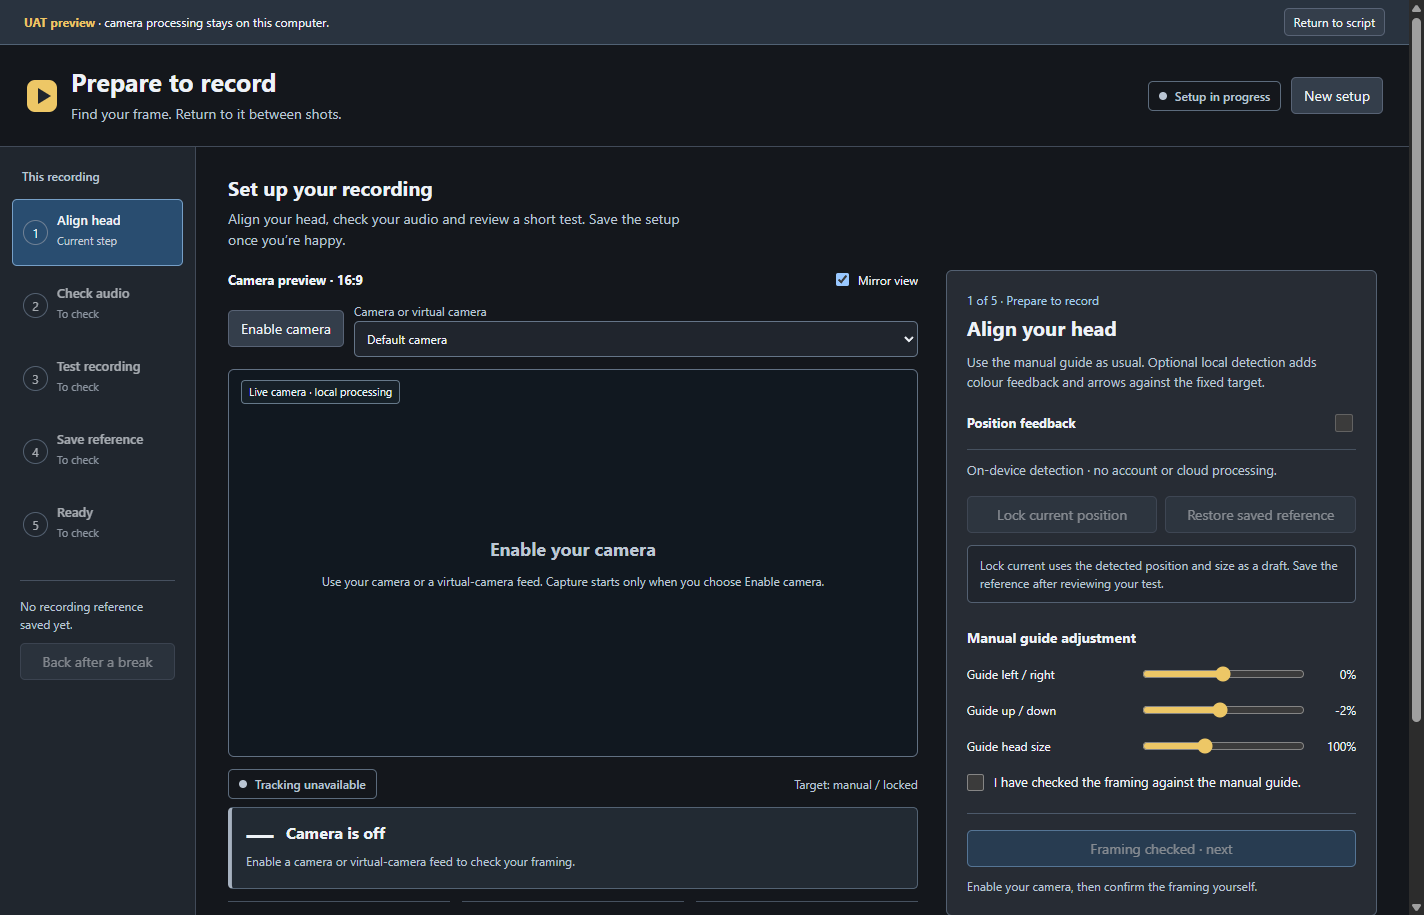
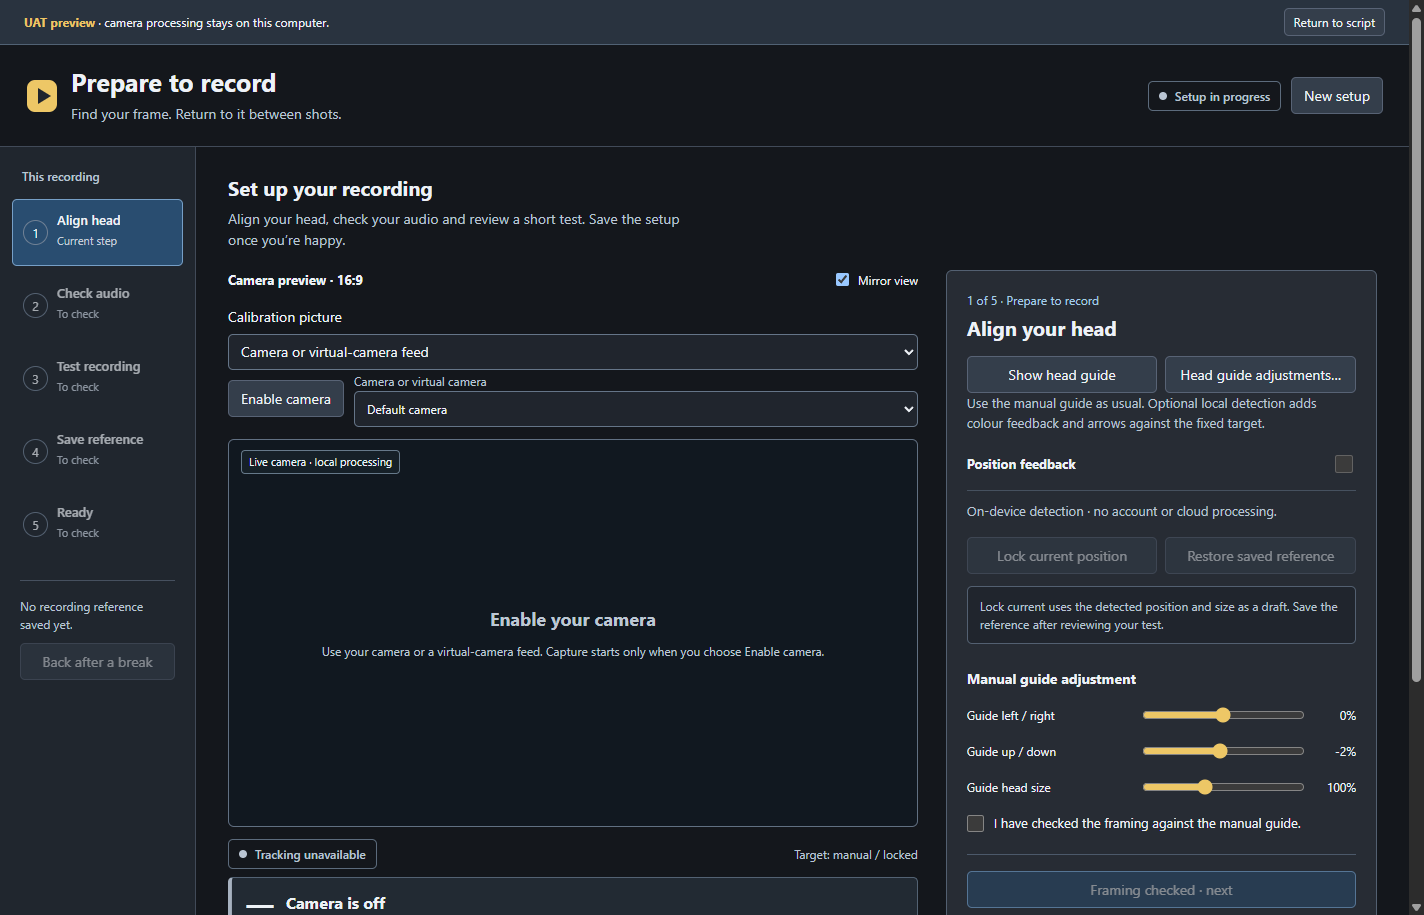
Document verified RC4 and refresh packaged Settings captures

diff --git a/docs/design/NEXT-PREVIEW-FEEDBACK.md b/docs/design/NEXT-PREVIEW-FEEDBACK.md
@@ -1,38 +1,48 @@
 # Feedback queued after UAT 09
 
-## Preparation entry points · queued after RC 3
+## Preparation entry points · delivered in RC 4
 
-- [ ] Make the significant camera/audio/test/reference workflow the first,
+- [x] Make the significant camera/audio/test/reference workflow the first,
   prominent action under Prepare to record, using the same card style as the
   six Settings shortcuts. Remove the small detached button below the grid.
-- [ ] Clarify the menu/page labels: Prepare to record > Overview, with detailed
+- [x] Clarify the menu/page labels: Prepare to record > Overview, with detailed
   guide/sound/connection settings below the actual workflow entry.
-- [ ] Show a direct main-toolbar entry and useful test/reference state.
-- [ ] Review the combined entry-point mock before implementation. Retain the
+- [x] Show a direct main-toolbar entry and useful test/reference state.
+- [x] Review the combined entry-point mock before implementation. Retain the
   signed-off three-column Settings composition and non-modal preparation.
-- [ ] Integrate live detection and Lock current with the existing Ctrl+Shift+H
+- [x] Integrate live detection and Lock current with the existing Ctrl+Shift+H
   overlay. Use one shared pose/reference and the existing guide adjustments;
   the current copy-on-open/save-only bridge is insufficient.
-- [ ] Support OBS calibration without requiring a change to the local recording
+- [x] Support OBS calibration without requiring a change to the local recording
   route. Assess selected scene/source frames first; temporary virtual camera
   is an explicit fallback that restores ownership correctly. A projector
   window is a display, not a currently supported detector input.
-- [ ] Hide OBS scene/source and temporary virtual-camera choices, OBS-specific
+- [x] Hide OBS scene/source and temporary virtual-camera choices, OBS-specific
   notes and related controls unless OBS is installed and integration is enabled.
   Keep generic camera/virtual feeds available. Apply this in both guide and
   preparation views. Do not equate disconnected/not running with not installed,
   or start a different capture input automatically when OBS is disabled.
-- [ ] Show a visible OBS scene chooser for direct OBS calibration. List actual
+- [x] Show a visible OBS scene chooser for direct OBS calibration. List actual
   scenes from the configured connection, retain the choice, and share it with
   the head guide. Selecting it must not switch programme/recording scenes.
   Hide it when OBS is unavailable/disabled or a different input type is selected.
-- [ ] Verify fixed-target behaviour, crop/aspect/projector mapping, two-way guide
+- [x] Verify fixed-target behaviour, crop/aspect/projector mapping, two-way guide
   updates, manual controls, reference restore and camera/feed cleanup. Keep
   Ideal and retain the distinction between saved pose and checked recording.
 
-See [the entry review](PREPARE-ENTRY-REVIEW.md) and its interactive mock. These
-are queued proposals, not features delivered in RC 3. No new RC is built for
-this single observation; collect the next feedback batch first.
+- [x] Align the pad Columns/preset row and show all nine buttons without a
+  selected-row picker. Keep every row reachable, with reorder and Remove.
+- [x] Show every game-controller and keyboard/clicker assignment with its
+  action and Remove control; scroll long lists rather than hiding mappings.
+- [x] Rename the connection page MCP, AI, and API and add Configure MCP beside
+  the switch, opening the included offline setup guide.
+
+See [the entry review](PREPARE-ENTRY-REVIEW.md) and its interactive mock.
+Joanne requested the build after reviewing the entry/shared-guide mock. These
+delivered messages were reconciled as one RC 4 batch; no unseen pending queue
+is claimed as reviewed. Source and packaged Windows checks pass, including
+real local inference and a scene-frame OBS protocol fixture. All four installer
+targets pass CI run 41836022786. Physical camera/projector/OBS UAT remains.
 
 ## RC 1 handover · 4 November 2026
 

diff --git a/docs/guide/07-settings.md b/docs/guide/07-settings.md
@@ -1,6 +1,6 @@
 # Settings
 
-This source guide describes **1.2.0 RC 1**, based on the approved
+This source guide describes **1.2.0 RC 4**, based on the approved
 interactive demo and Joanne's combined Connections/recording feedback.
 For the released app, use the guide bundled with its installer.
 
@@ -8,7 +8,7 @@ Open **Settings** on the toolbar, **Files (☰) > Settings**, or **Ctrl+,**
 (**Cmd+,** on Mac). Settings opens in an upright, movable window. It retains
 the same frame while you change sections; resizing never moves a control
 onto another page. There is no numbered pagination. Longer Getting started,
-Recording setup, OBS connection and AI/API panels scroll in the centre pane,
+Preparation, OBS connection, MCP/API and assignment panels scroll in the centre pane,
 keeping navigation, the reading example and footer in place.
 
 On larger windows, choose an area and a named section in the sidebar, or use
@@ -53,20 +53,21 @@ existing stored precision is retained until you adjust the value.
 | Area | Sections |
 | --- | --- |
 | Getting started | First setup: current configuration and guided next steps; Restore defaults |
-| Prepare to record | Recording setup |
+| Prepare to record | Overview |
 | Reading | Mode and pace; Text and directions; Theme and background; Prompter layout; Reading aids; Screens and mirroring; Head guide |
 | Voice | Speech engine; Microphone; Commands; Your words |
 | Recording | Takes; Sound check; Slate and sync |
-| Connections | Pad and phone; Phone remote; Keyboard and clickers; Game controller; Stream Deck; OBS integration; AI and API; Apps and add-ons |
+| Connections | Pad and phone; Phone remote; Keyboard and clickers; Game controller; Stream Deck; OBS integration; MCP, AI, and API; Apps and add-ons |
 | Debug | Status and recovery; Speech trace; Capture for demos; Support log |
 | About | Version and updates; Credits and licences; Help and support |
 
 ## Prepare and reading
 
-**Recording setup** opens preparation checks and links directly
-to script review, appearance and framing.
-
-Its **Prepare to record** action opens the real camera/audio/test workflow.
+**Prepare to record > Overview** puts the real head-guide/audio/test workflow
+first, with Open workflow and retained test/reference outcomes. Detailed reading,
+guide, sound and recorder settings sit below it. The main toolbar also has a
+direct Prepare to record action. Guide position and detection feedback are shared
+with the Ctrl+Shift+H overlay; choose a camera or an available OBS scene there.
 See [Prepare to record](16-prepare-to-record.md).
 
 Test recording results persist beside this action and on the prompter. A clip
@@ -76,7 +77,7 @@ sound meter automatically, then restore its earlier visibility.
 **Connections > OBS integration** has three visible subtabs: Connection,
 Recording control, Profile and scenes. Connection and recording state are
 separate. Apply connection changes before testing; retained pass/fail feedback
-does not replace reviewing a recording. **AI and API** contains the optional
+does not replace reviewing a recording. **MCP, AI, and API** contains the optional
 [MCP connection and separate grants](../MCP.md). Installation/repair is under
 **Apps and add-ons**; Restore defaults is under **Getting started**.
 
@@ -227,7 +228,7 @@ Disabling an interface does not uninstall its software.
 - **OBS integration** lives under Controls. Enable it before its recording
   and profile/scene sections appear. Apply, start OBS and test the saved
   WebSocket connection. Recording control is a separate permission.
-- **AI and API** uses a local port and access token. General authorised
+- **MCP, AI, and API** uses a local port and access token. General authorised
   clients can use it; the supplied AI kit commands additionally need the
   optional kit and a suitable Node.js installation.
 

diff --git a/docs/guide/16-prepare-to-record.md b/docs/guide/16-prepare-to-record.md
@@ -11,7 +11,7 @@ Overview > Open workflow**, or use the main **Prepare to record** toolbar action
 Pause prompting and stop production
 recording first. The preparation window is non-modal.
 
-RC 1 retains test results in **Settings > Prepare to record > Recording setup**
+Test results appear in **Settings > Prepare to record > Overview**
 and on the main prompter. A saved clip initially says **Review required**.
 Review its picture and sound, confirm both, then select **Test checked** to pass.
 Use **Test failed · retry** to retain a failed result while correcting the setup.
@@ -28,6 +28,11 @@ Its position, size, manual shape and recording reference are shared. Lock curren
 in either view updates the same draft; it never replaces Ideal automatically.
 Use the guide's normal placement/size controls to match the camera/projector
 picture. Keep the same crop and aspect ratio; this is not automatic window fitting.
+
+![Existing head guide showing local position feedback and a fixed target](images/head-guide-feedback.png)
+
+This isolated test capture shows the transparent guide without the desktop
+picture behind it. In use, place it over the matching camera/projector picture.
 
 When OBS integration is enabled and available, Calibration picture offers
 **OBS scene preview** and a visible **OBS scene** list. Choose the scene matching
@@ -89,7 +94,9 @@ target. Align yourself and recheck audio. It retains the original target and
 test; current movement never silently replaces them. A different camera or
 resolution requires a new setup. **New setup** retains the old reference until
 you explicitly replace it after a new test. Returning to the script releases
-the preparation camera and microphone and leaves production recording stopped.
+the preparation microphone. Position feedback can continue while the head guide
+is visible; hiding both views or disabling feedback releases its picture feed.
+Preparation leaves production recording stopped.
 
 ## Storage and limitations
 

diff --git a/ROADMAP.md b/ROADMAP.md
@@ -6,7 +6,8 @@
 OBS scene calibration with conditional source controls, prominent preparation
 entry, complete pad/assignment lists, pad row alignment and MCP setup help are
 implemented. Source unit, native Settings (five sizes) and native camera/OBS
-preparation checks pass. Packaging and installer verification follow together.
+preparation checks pass. Both native suites pass against the Windows package;
+all four installer targets pass CI run 41836022786. RC 4 is ready for physical UAT.
 The Settings composition stays as approved; no personal profile is reset.
 
 **RC 3 camera recovery:** the default Facecam failure exposed a disabled input
@@ -30,8 +31,8 @@ both Mac architectures and Linux passed installer CI. Physical recording UAT
 remains necessary before treating this candidate as the final release.
 See [RC scope](docs/RELEASE-1.2.0-SCOPE.md). The UAT 09 baseline below remains
 available alongside the verified candidate.
-**Latest packaged candidate:** RC 3 remains available while RC 4, documentation
-revision 14, completes its combined packaged checks.
+**Latest packaged candidate:** RC 4, documentation revision 14. Earlier RCs
+remain available alongside it.
 **Next deliverable:** Joanne's physical recording UAT, then final release.
 The combined RC feedback batch is implemented and packaged. UAT 09 remains
 available as the previous accepted baseline.

diff --git a/docs/guide/settings-gallery.md b/docs/guide/settings-gallery.md
@@ -1,6 +1,25 @@
-# Settings screenshot gallery — RC 1
+# Settings screenshot gallery
 
-## Current RC 1 changes
+## Current RC 4 changes
+
+Actual packaged Windows captures at 1440 × 900 with 2× pixel density,
+4 November 2026. These supersede the corresponding earlier pages below.
+Demonstration assignments and unapplied switches show the available controls.
+
+![Prepare to record: prominent workflow and test/reference state](images/settings-rc4-checklist.png)
+
+![Game controller: every assignment with its action and Remove button](images/settings-rc4-gamepad.png)
+
+![Keyboard and clickers: complete assignment list](images/settings-rc4-mappings.png)
+
+![Pad and phone: aligned preset controls and all buttons in the selected layout](images/settings-rc4-pad.png)
+
+![MCP, AI, and API with Configure MCP beside its switch](images/settings-rc4-api.png)
+
+Long assignment lists scroll within the page. Pad buttons retain drag and
+Earlier/Later controls; the first and last disable the unavailable direction.
+
+## Earlier RC 1 captures
 
 Actual packaged Windows captures at 1440 × 900 with 2× pixel density,
 4 November 2026. Optional integrations are enabled in an unapplied draft to

diff --git a/docs/RC-1.2.0-4.md b/docs/RC-1.2.0-4.md
@@ -23,7 +23,10 @@ nine visible pad rows and controller assignments. Native preparation verifies
 two-way guide updates, actual bundled inference, measured audio, real WebM
 review and fixed-reference handling. The local OBS protocol fixture verifies
 scene selection and preview-frame calibration without recording/scene changes.
-Packaged checks and cross-platform installer CI follow before handover.
+The packaged Windows build passes both native suites. All four installer
+targets pass [CI run 41836022786](https://github.com/JoJo-1965/sightline-prompter/actions/runs/41836022786),
+including strict ad-hoc signature and packaged-runtime checks on both Macs.
+Current captures are in the [Settings gallery](guide/settings-gallery.md).
 
 ## UAT
 
